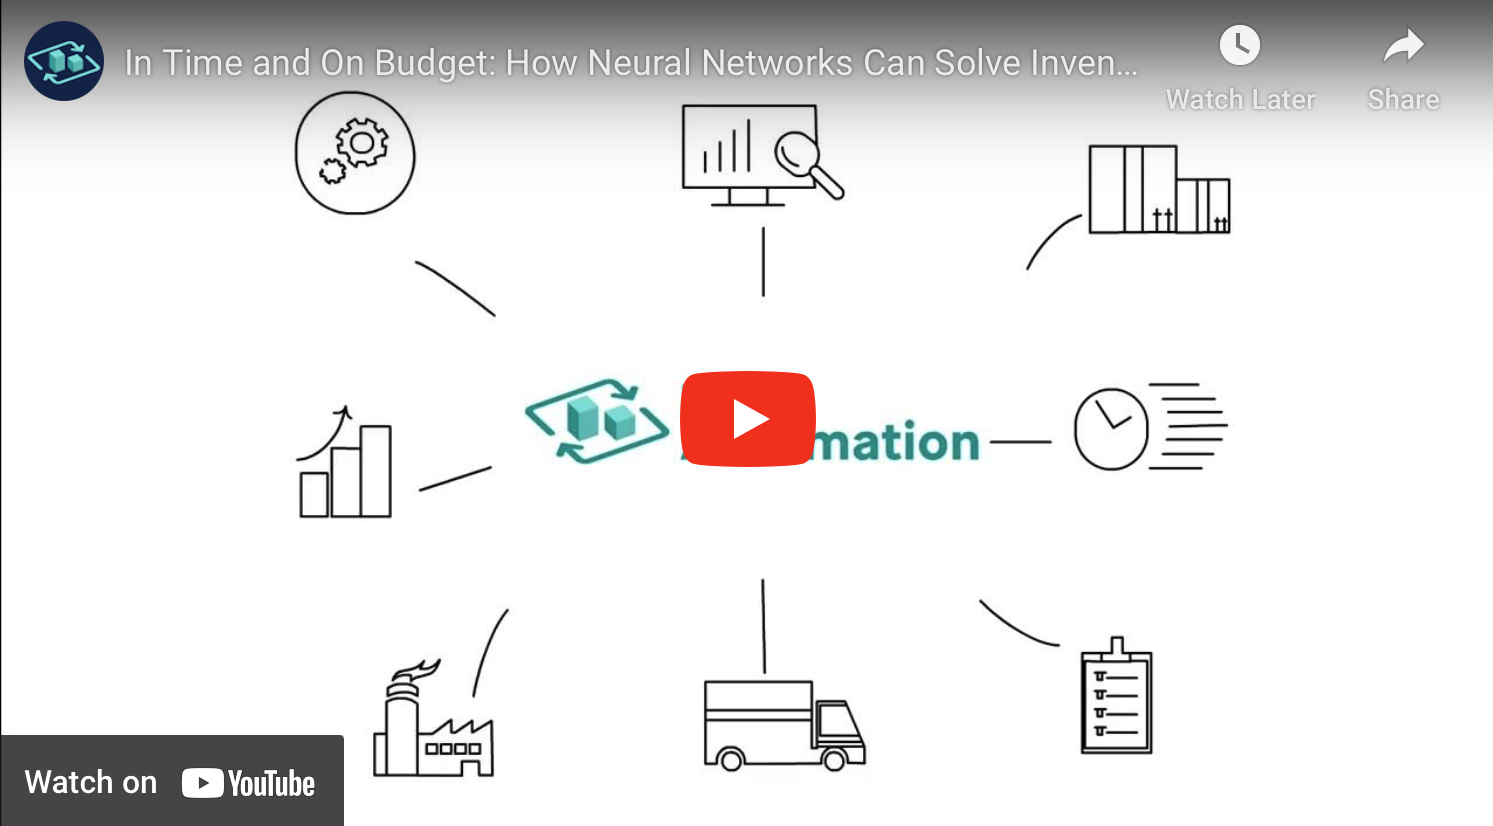
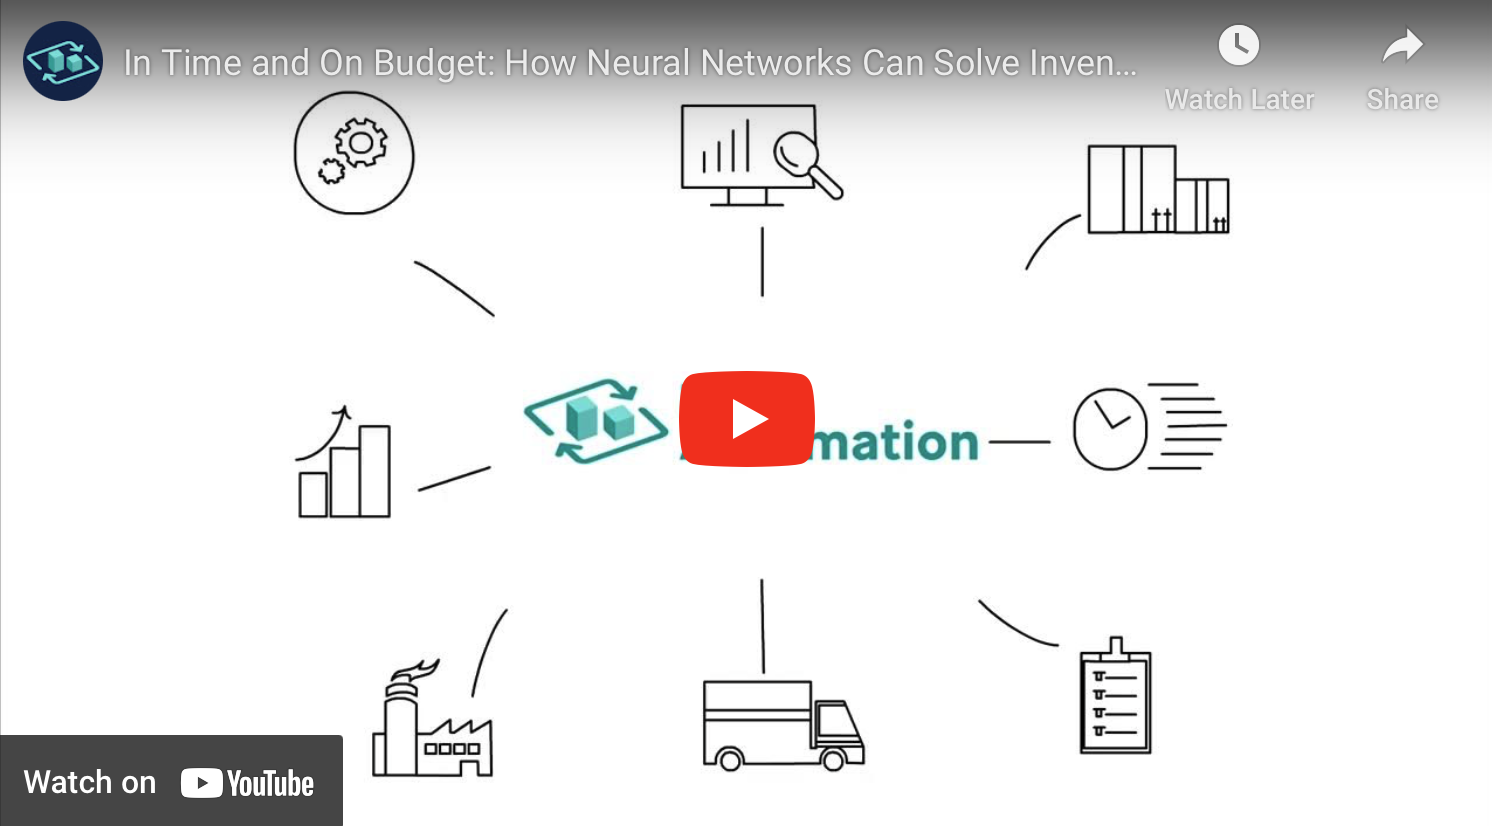
Update YouTube thumbnails

diff --git a/README.md b/README.md
@@ -1,6 +1,6 @@
 # idinn: Inventory-Dynamics Control with Neural Networks
 
-<img src="docs/_static/youtube.png" align="center" width="60%" size="auto" alt="youtube">
+[<img src="docs/_static/youtube.png" align="center" width="60%" size="auto" alt="youtube">](https://www.youtube.com/watch?v=hUBfTWV6tWQ)
 
 `idinn` implements **i**nventory **d**ynamics–**i**nformed **n**eural **n**etworks designed for solving both single-sourcing and dual-sourcing problems. Neural network controllers and inventory dynamics are implemented into easily customizable classes to enable users to find the optimal controllers for the user-specified inventory systems.
 
